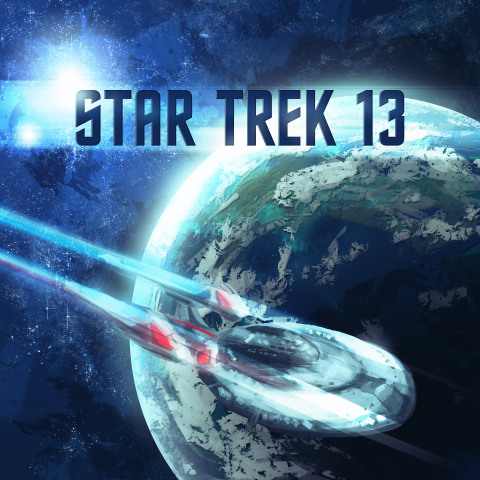
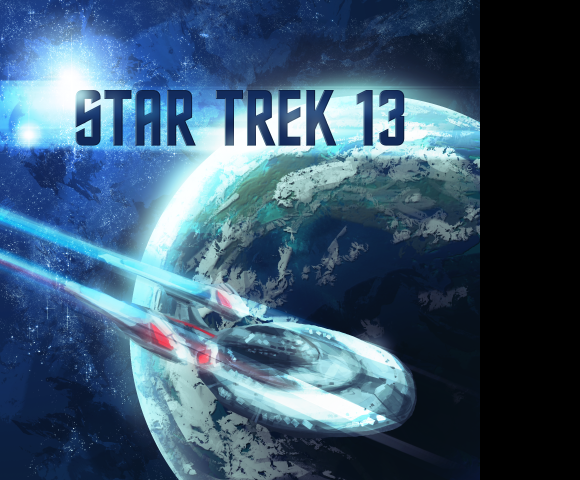
Adds widescreen and darkmode, use the "toggle widescreen" verb to access this new feature

diff --git a/code/modules/goonchat/browserassets/css/browserOutput.css b/code/modules/goonchat/browserassets/css/browserOutput.css
@@ -10,7 +10,7 @@ html, body {
 	color: #000000;
 }
 body {
-	background: #fff;
+	background: #ECE3E3;
     font-family: Verdana, sans-serif;
     font-size: 9pt;
     line-height: 1.2;
